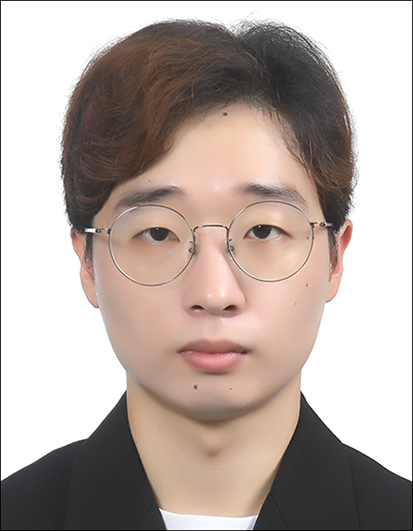
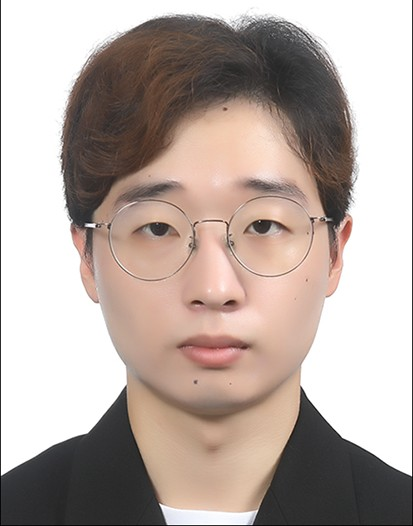
Refine member card layout and photo aspect
- Switch member photos to rounded-rectangle with 4:5.5 portrait ratio
  (160x220 desktop, 100x138 mobile) so ID-style photos are not cropped.
- On mobile (<=480px), stack members in one column with horizontal
  photo+info cards for a compact card-section feel.
- Re-crop park-jungyo and park-wonwoo photos to remove edge artifacts.

diff --git a/themes/gnsslab/static/css/style.css b/themes/gnsslab/static/css/style.css
@@ -1550,9 +1550,9 @@ input, textarea, select {
 
 .member-photo img,
 .member-photo .photo-placeholder {
-  width: 140px;
-  height: 140px;
-  border-radius: 50%;
+  width: 160px;
+  height: 220px;
+  border-radius: var(--radius-lg);
   object-fit: cover;
   display: block;
 }
@@ -2786,7 +2786,31 @@ input, textarea, select {
 
   .stat-divider { display: none; }
 
-  .members-grid { grid-template-columns: 1fr; }
+  .members-grid {
+    grid-template-columns: 1fr;
+    gap: var(--space-3);
+  }
+
+  .member-card {
+    display: grid;
+    grid-template-columns: 100px 1fr;
+    align-items: center;
+    gap: var(--space-4);
+    text-align: left;
+    padding: var(--space-4);
+  }
+
+  .member-photo { margin-bottom: 0; }
+
+  .member-photo img,
+  .member-photo .photo-placeholder {
+    width: 100px;
+    height: 138px;
+  }
+
+  .member-research-tags { justify-content: flex-start; }
+
+  .member-card:hover { transform: none; }
 
   .logo-text { display: none; }
 

diff --git a/themes/gnsslab/static/css/style2.css b/themes/gnsslab/static/css/style2.css
@@ -1553,9 +1553,9 @@ input, textarea, select {
 
 .member-photo img,
 .member-photo .photo-placeholder {
-  width: 140px;
-  height: 140px;
-  border-radius: 50%;
+  width: 160px;
+  height: 220px;
+  border-radius: var(--radius-lg);
   object-fit: cover;
   display: block;
 }
@@ -2789,7 +2789,31 @@ input, textarea, select {
 
   .stat-divider { display: none; }
 
-  .members-grid { grid-template-columns: 1fr; }
+  .members-grid {
+    grid-template-columns: 1fr;
+    gap: var(--space-3);
+  }
+
+  .member-card {
+    display: grid;
+    grid-template-columns: 100px 1fr;
+    align-items: center;
+    gap: var(--space-4);
+    text-align: left;
+    padding: var(--space-4);
+  }
+
+  .member-photo { margin-bottom: 0; }
+
+  .member-photo img,
+  .member-photo .photo-placeholder {
+    width: 100px;
+    height: 138px;
+  }
+
+  .member-research-tags { justify-content: flex-start; }
+
+  .member-card:hover { transform: none; }
 
   .logo-text { display: none; }
 
